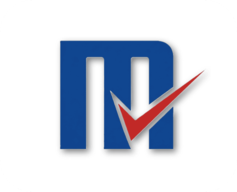
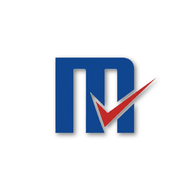
Add files via upload

Changed region(s): [[0.25, 0.1875, 0.875, 0.8125]]

diff --git a/service-worker.js b/service-worker.js
@@ -1,7 +1,7 @@
 // Service Worker - MSB ERP System
 // Strategi: network-first untuk data selalu ter-update, fallback ke cache saat offline/koneksi lemah.
 
-const CACHE_NAME = 'msb-erp-shell-v1';
+const CACHE_NAME = 'msb-erp-shell-v2'; // <-- dibump dari v1 supaya cache lama (termasuk ikon lama) dibuang
 const APP_SHELL = [
   './',
   './index.html',
